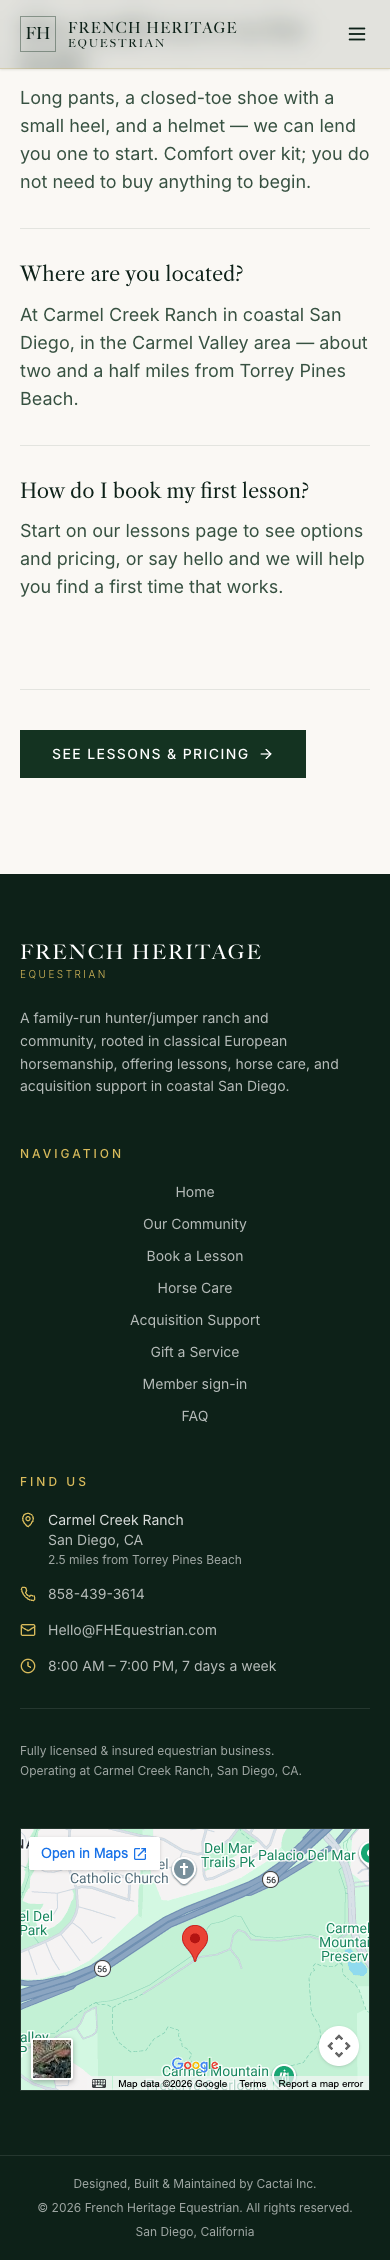
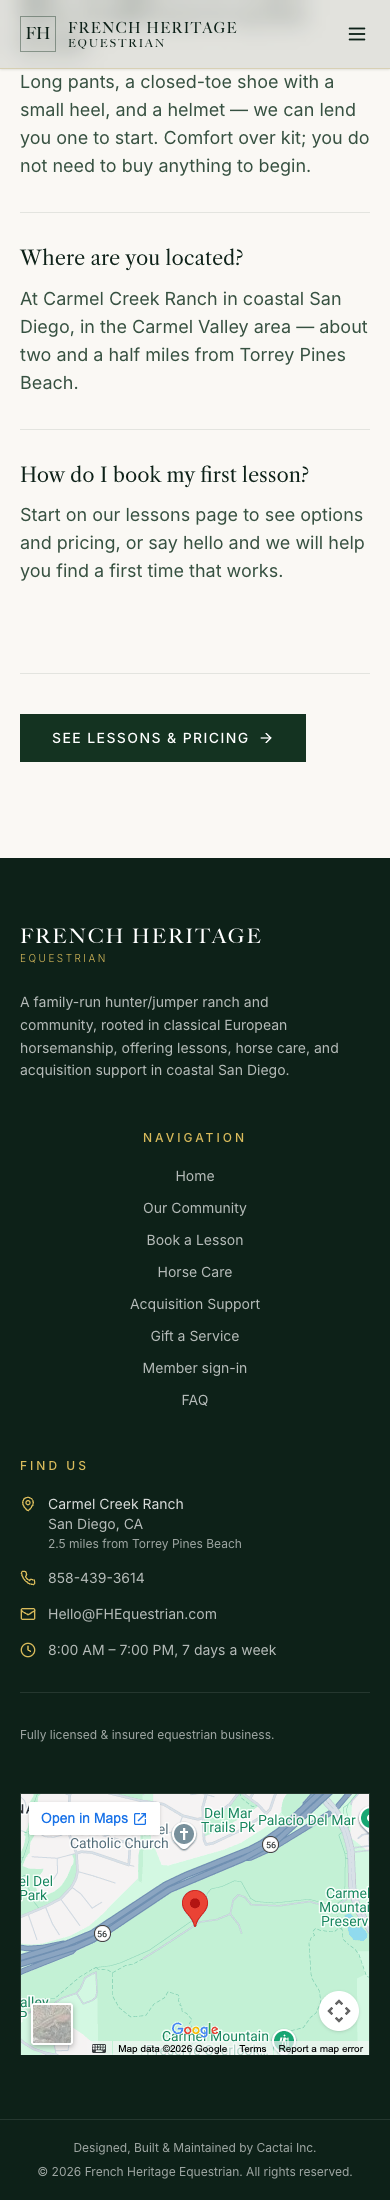
TASK-FOOTER: center Navigation label, drop redundant San Diego mentions
- "Navigation" eyebrow label centered over the now-centered nav links
  (missed this when centering the links themselves).
- Bottom bar's "San Diego, California" removed per the owner ("unless it
  helps with SEO" -- it doesn't: bare unlinked footer text repeating what's
  already in the LocalBusiness JSON-LD, the meta description, and Find Us
  two columns over). Kept the grid-cols-3 structure with an empty third
  cell instead of collapsing to 2 columns, since collapsing would break
  the true-center-line trick this section relies on.
- Find Us licensed-and-insured note trimmed from two sentences to one --
  dropped "Operating at Carmel Creek Ranch, San Diego, CA" since both the
  ranch name and city already appear at the top of the same column.

diff --git a/src/components/layout/Footer.tsx b/src/components/layout/Footer.tsx
@@ -48,7 +48,7 @@ export default function Footer() {
 
         {/* Navigation */}
         <div>
-          <p className="eyebrow-on-dark mb-5">Navigation</p>
+          <p className="eyebrow-on-dark mb-5 text-center">Navigation</p>
           <nav className="flex flex-col items-center gap-3 text-center" aria-label="Footer">
             {[
               { label: 'Home', href: '/' },
@@ -126,7 +126,6 @@ export default function Footer() {
           <div className="mt-8 pt-8 border-t border-white/10">
             <p className="text-xs font-sans text-white/[0.6] leading-relaxed">
               Fully licensed &amp; insured equestrian business.
-              <br />Operating at Carmel Creek Ranch, San Diego, CA.
             </p>
           </div>
         </div>
@@ -155,9 +154,12 @@ export default function Footer() {
           <p className="text-xs font-sans text-white/[0.6] sm:justify-self-center">
             &copy; {new Date().getFullYear()} French Heritage Equestrian. All rights reserved.
           </p>
-          <p className="text-xs font-sans text-white/[0.6] sm:justify-self-end">
-            San Diego, California
-          </p>
+          {/* Third grid track intentionally left empty (owner, 2026-08-17:
+              dropped "San Diego, California" here — redundant with Find Us
+              and the LocalBusiness JSON-LD, no SEO value from bare footer
+              text). Keeping the 3-track grid, not collapsing to 2 columns,
+              is what keeps the copyright on the page's true centre line. */}
+          <div aria-hidden="true" className="hidden sm:block" />
         </div>
       </div>
 

diff --git a/docs/reports/TASK-FOOTER-REPORT.md b/docs/reports/TASK-FOOTER-REPORT.md
@@ -175,12 +175,32 @@ flagged doesn't apply to a 3-track grid). Confirmed visually in
 `footer-desktop.png`: the copyright line sits centered on the full 1440px
 width, not just centered between the other two items.
 
-Owner question 1 (keep `San Diego, California`?) — **not answered**, so per
-the DEFAULTS section I kept it, on the right, unchanged text.
+Owner question 1 (keep `San Diego, California`?) — **answered later,
+2026-08-17: drop it.** *"we dont need san diego, california in the last line
+of the footer unless it helps with SEO."* Judgment call the owner explicitly
+handed me: it doesn't — it's bare, unlinked footer text repeating a city name
+already present in the page's `LocalBusiness` JSON-LD (`Layout.tsx`'s
+`ORG_JSONLD`, with a real address and geo-coordinates), in the meta
+description, and in the Find Us block two columns over. An isolated text
+fragment with no semantic markup adds nothing incremental for search engines
+over those. Removed the `<p>`, but **kept the `grid-cols-3` structure** with
+an empty `aria-hidden` third cell rather than collapsing to two columns —
+collapsing would have put the copyright off the page's true centre again
+(the exact `justify-between` problem this section exists to avoid), since two
+equal tracks don't have the same centre point as three.
 
-On mobile (`footer-mobile.png`) it collapses to one column, centered, in the
-order credit → copyright → San Diego, California — matches THE TEST item 3
-exactly.
+On mobile (`footer-mobile.png`) the empty third cell is `hidden` outright (no
+dead blank line), so it now stacks credit → copyright, two lines, not three.
+
+**Same owner message, a related redundancy in the Find Us column:** *"we say
+San Diego, CA in the text next to the map below the find us and we dont need
+it there either because we say it at the top of that section... leave the
+line 'Fully Licensed and Insured Equestrian Business.'"* The licensed-&-
+insured note used to read *"Fully licensed & insured equestrian business. /
+Operating at Carmel Creek Ranch, San Diego, CA."* — both "Carmel Creek Ranch"
+and "San Diego, CA" repeat verbatim from the MapPin block three lines above
+it in the same column. Cut the second sentence entirely, kept the first line
+standalone. Visible in both refreshed screenshots.
 
 ## F4 — the Cactai link: DONE
 
